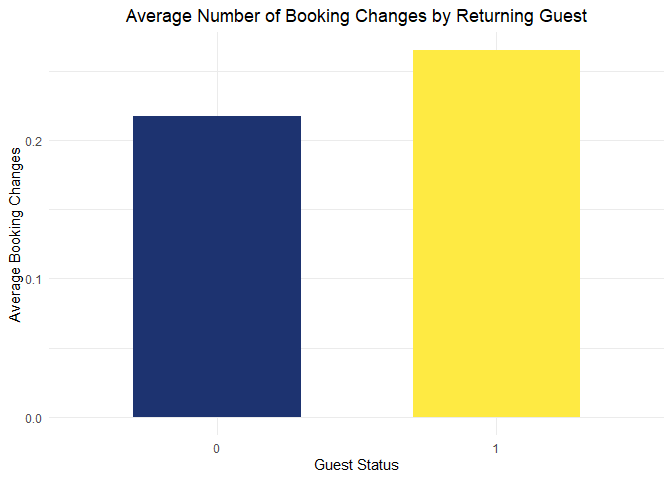
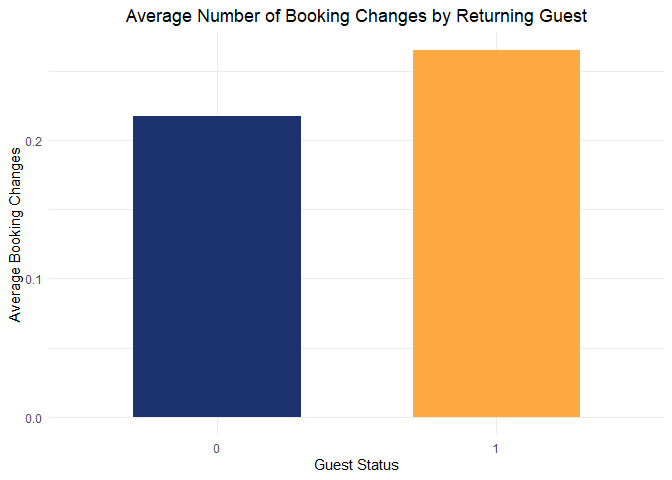
fixed color, was wrong hex for yellow shoulda been more orange. oops!

Changed region(s): [[0.5938, 0.0938, 0.875, 0.875]]

diff --git a/README.md b/README.md
@@ -281,7 +281,7 @@ ggplot(data, aes(x = arrival_date_month, fill = hotel)) +
   geom_bar(position = "dodge") +
   facet_wrap(~ arrival_date_year) +
   labs(title = "Monthly Bookings: Resort vs City Hotel", x = "Month", y = "Bookings") +
-   scale_fill_manual(values = c("City Hotel" = "#1d3370", "Resort Hotel" = "#feea43")) +
+   scale_fill_manual(values = c("City Hotel" = "#1d3370", "Resort Hotel" = "#feaa43")) +
   theme_minimal() +
   theme(axis.text.x = element_text(angle = 45, hjust = 1),
         plot.title = element_text(hjust = 0.5))
@@ -339,7 +339,7 @@ ggplot(cancellation_summary, aes(x = arrival_date_month, y = bookings, fill = is
   facet_wrap(~ arrival_date_year) +
   labs(title = "Hotel Booking Cancellations by Month and Year",
        x = "Arrival Month", y = "Number of Bookings", fill = "Status") +
-   scale_fill_manual(values = c("Not Canceled" = "#1d3370", "Canceled" = "#feea43")) +
+   scale_fill_manual(values = c("Not Canceled" = "#1d3370", "Canceled" = "#feaa43")) +
   theme_minimal() +
   theme(axis.text.x = element_text(angle = 45, hjust = 1),
         plot.title = element_text(hjust = 0.5))
@@ -423,7 +423,7 @@ ggplot(data, aes(x = lead_time, fill = factor(is_canceled))) +
   geom_histogram(position = "fill", bins = 50) +
   labs(title = "Cancellation Rate by Lead Time", x = "Lead Time (days)",
        y = "Proportion", fill = "Canceled") +
-   scale_fill_manual(values = c("0" = "#1d3370", "1" = "#feea43")) +
+   scale_fill_manual(values = c("0" = "#1d3370", "1" = "#feaa43")) +
   theme_minimal() + 
   theme(
     plot.title = element_text(hjust = 0.5)
@@ -492,7 +492,7 @@ ggplot(data, aes(x = factor(is_repeated_guest), y = is_canceled, fill = factor(i
   scale_x_discrete(labels = c("New Guest", "Returning Guest")) +
   scale_y_continuous(labels = scales::percent_format(accuracy = 1)) +
   scale_fill_manual(
-    values = c("0" = "#1d3370", "1" = "#feea43"),
+    values = c("0" = "#1d3370", "1" = "#feaa43"),
     labels = c("New Guest", "Returning Guest")
   ) +
   labs(
@@ -520,7 +520,7 @@ more frequent and consistent customers.
 The graph shows the relationships from customer type to cancellations.
 
 ``` r
-cust_colors <- colorRampPalette(c("#1d3370", "#feea43"))(4)
+cust_colors <- colorRampPalette(c("#1d3370", "#feaa43"))(4)
 
 data %>%
   group_by(customer_type) %>%
@@ -562,7 +562,7 @@ This graph demonstrates the relationship between market segments and
 cancellation rates.
 
 ``` r
-market_colors <- colorRampPalette(c("#1d3370", "#feea43"))(7)
+market_colors <- colorRampPalette(c("#1d3370", "#feaa43"))(7)
 
 data %>%
   filter(market_segment != "Undefined") %>%
@@ -632,7 +632,7 @@ data %>%
     x = "Hotel Type",
     y = "Cancellation Rate"
   ) +
-  scale_fill_manual(values = c("City Hotel" = "#1d3370", "Resort Hotel" = "#feea43")) +
+  scale_fill_manual(values = c("City Hotel" = "#1d3370", "Resort Hotel" = "#feaa43")) +
   theme_minimal() +
   theme(legend.position = "none",
     plot.title = element_text(hjust = 0.5)
@@ -737,7 +737,7 @@ cleaned_data <- data %>%
 
 ggplot(cleaned_data, aes(x = lead_time, y = adr)) +
   geom_point(alpha = 0.15, color="#1d3370") +  
-  geom_smooth(method = "lm", color = "#feea43", se = FALSE) +  
+  geom_smooth(method = "lm", color = "#feaa43", se = FALSE) +  
   labs(
     title = "Relationship Between Lead Time and Average Daily Rate (ADR)",
     x = "Lead Time (Days)",
@@ -828,7 +828,7 @@ filtered_data <- data %>%
 
 ggplot(filtered_data, aes(x = total_guests, y = adr)) +
   geom_jitter(alpha = 0.2, color="#1d3370") +
-  geom_smooth(method = "lm", se = FALSE, color = "#feea43") +
+  geom_smooth(method = "lm", se = FALSE, color = "#feaa43") +
   labs(title = "ADR vs. Number of Guests",
        x = "Total Number of Guests",
        y = "Average Daily Rate (ADR)") +
@@ -860,7 +860,7 @@ filtered_data <- data %>%
 # Box plot of ADR by agent status
 ggplot(filtered_data, aes(x = has_agent, y = adr, fill = has_agent)) +
   geom_boxplot(outlier.alpha = 0.2) +
-  scale_fill_manual(values = c("Has Agent" = "#1d3370", "No Agent" = "#feea43")) +
+  scale_fill_manual(values = c("Has Agent" = "#1d3370", "No Agent" = "#feaa43")) +
   labs(
     title = "ADR Comparison (ADR < 1000): Bookings With vs Without Agent",
     x = "Agent Status",
@@ -959,7 +959,7 @@ group_behavior <- data %>%
 
 # Plot
 ggplot(group_behavior, aes(x = factor(number_of_guests), y = avg_lead_time)) +
-  geom_col(fill = "#feea43") +
+  geom_col(fill = "#feaa43") +
   labs(title = "Average Lead Time by Group Size", x = "Group Size", y = "Average Lead Time (days)") +
   theme_minimal() + theme(plot.title = element_text(hjust = 0.5))
 ```
@@ -988,7 +988,7 @@ data_grouped <- data_non_canceled %>%
 # Plot with point size representing frequency
 ggplot(data_grouped, aes(x = number_of_guests, y = required_car_parking_spaces, size = count)) +
   geom_point(alpha = 0.6, color = "#1d3370") +
-  geom_smooth(method = "lm", color = "#feea43", se = FALSE, show.legend = FALSE) +
+  geom_smooth(method = "lm", color = "#feaa43", se = FALSE, show.legend = FALSE) +
   scale_size_continuous(range = c(1, 8)) +
   labs(
     title = "Number of Guests vs Car Parking Spots",
@@ -1062,7 +1062,7 @@ filtered_data <- data %>%
 # Plot
 ggplot(filtered_data, aes(x = number_of_guests, y = total_nights)) +
   geom_jitter(alpha = 0.2, color = "#1d3370", width = 0.2) +
-  geom_smooth(method = "lm", se = FALSE, color = "#feea43") +
+  geom_smooth(method = "lm", se = FALSE, color = "#feaa43") +
   labs(
     title = "Number of Guests vs Nights Stayed",
     x = "Number of Guests",
@@ -1132,7 +1132,7 @@ data %>%
   ) %>%
   filter(total > 10) %>%
   ggplot(aes(x = as.factor(booking_changes), y = cancel_rate)) +
-  geom_bar(stat = "identity", fill = "#feea43") +
+  geom_bar(stat = "identity", fill = "#feaa43") +
   geom_text(aes(label = scales::percent(cancel_rate, accuracy = 0.1)), 
             vjust = -0.5, size = 4) +
   scale_y_continuous(labels = scales::percent_format()) +
@@ -1164,7 +1164,7 @@ This shows booking changes by hotel type.
 ``` r
 ggplot(data, aes(x = hotel, y = booking_changes, fill = hotel)) +
   stat_summary(fun = mean, geom = "bar", width = 0.6, show.legend = FALSE) +
-  scale_fill_manual(values = c("City Hotel" = "#1d3370", "Resort Hotel" = "#feea43")) +
+  scale_fill_manual(values = c("City Hotel" = "#1d3370", "Resort Hotel" = "#feaa43")) +
   labs(
     title = "Average Number of Booking Changes by Hotel Type",
     x = "Hotel Type",
@@ -1226,7 +1226,7 @@ customer is a returning guest and the number of booking changes made.
     x = "Guest Status",
     y = "Average Booking Changes"
   ) +
-   scale_fill_manual(values = c("0" = "#1d3370", "1" = "#feea43")) +
+   scale_fill_manual(values = c("0" = "#1d3370", "1" = "#feaa43")) +
   theme_minimal() +
   theme(legend.position = "none",
     plot.title = element_text(hjust = 0.5)
@@ -1245,7 +1245,7 @@ The following graph shows customer type vs number of booking changes
 made.
 
 ``` r
-cust_colors <- colorRampPalette(c("#1d3370", "#feea43"))(4)
+cust_colors <- colorRampPalette(c("#1d3370", "#feaa43"))(4)
 
 # this reorders so that they go lowest to highest average num of booking changes
 data <- data %>%
@@ -1283,7 +1283,7 @@ Now we investigate the relationship between deposit type and number of
 booking changes.
 
 ``` r
-deposit_colors <- colorRampPalette(c("#1d3370", "#feea43"))(3)
+deposit_colors <- colorRampPalette(c("#1d3370", "#feaa43"))(3)
 
 data %>%
   group_by(deposit_type) %>%
@@ -1323,7 +1323,7 @@ To answer this question we observe the country of origin of bookings
 made.
 
 ``` r
-country_colors <- colorRampPalette(c("#1d3370", "#feea43"))(10)
+country_colors <- colorRampPalette(c("#1d3370", "#feaa43"))(10)
 
 country_counts <- data %>%
   group_by(country) %>%
